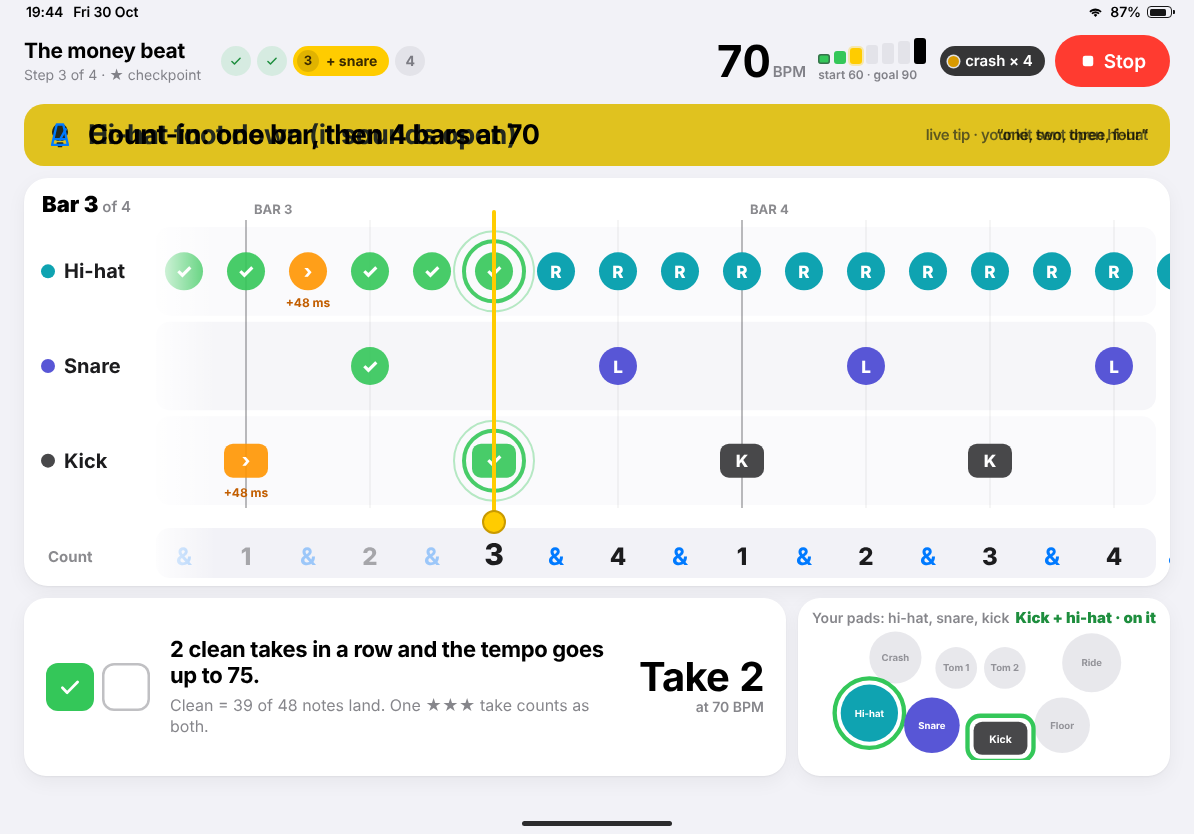
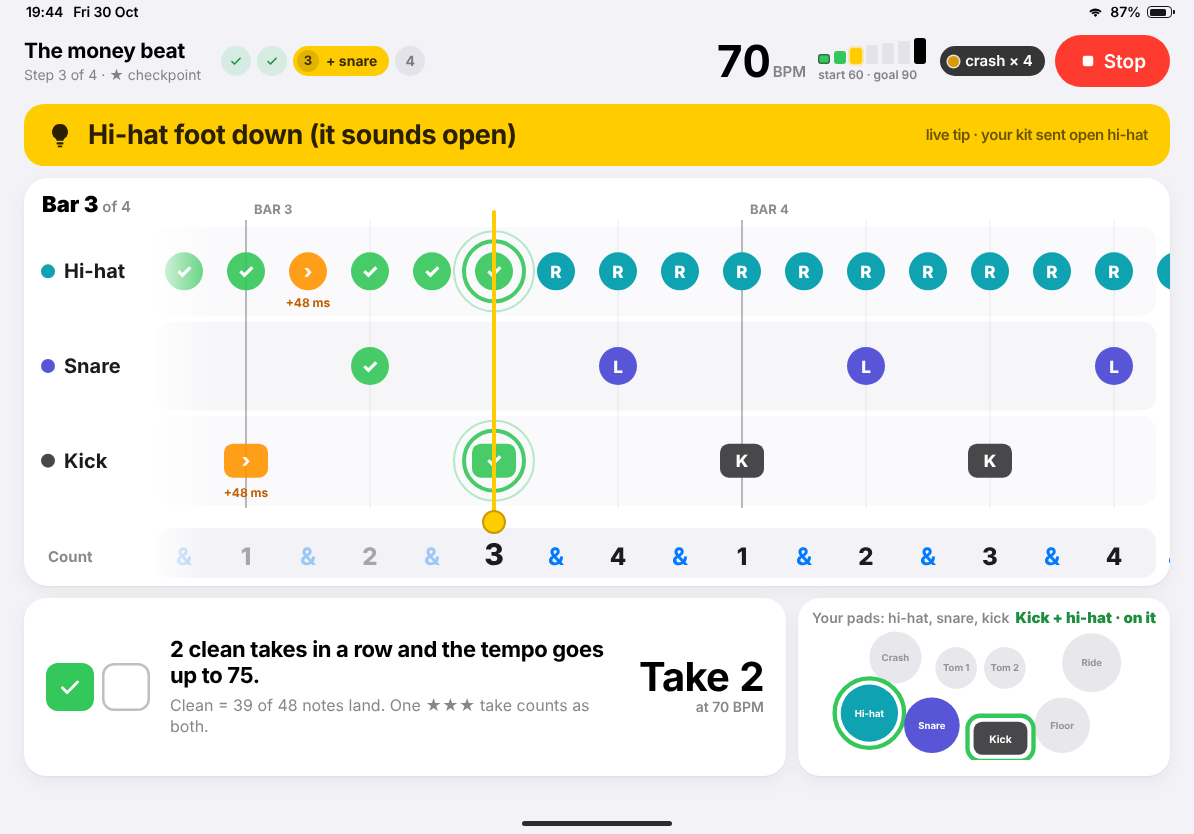
iPad mockups: lesson player variant fixes
Claude-Session: https://claude.ai/code/session_012qCzBwXtPvMyyk6zKAziwn

Changed region(s): [[0.0, 0.1247, 0.9916, 0.2182]]

diff --git a/docs/mockups/ipad/lesson-take.html b/docs/mockups/ipad/lesson-take.html
@@ -7,7 +7,7 @@
 <link rel="stylesheet" href="ipad.css">
 <style>
   /* Three moments of one screen: #ready (before the take), #countin, and the take itself (default). */
-  .v-ready, .v-countin { display: none; }
+  .ipad .v-ready, .ipad .v-countin { display: none; }
   #ready:target ~ * .v-ready, #ready:target ~ .v-ready { display: flex; }
   #ready:target ~ * .v-take, #ready:target ~ .v-take { display: none; }
   #countin:target ~ * .v-countin, #countin:target ~ .v-countin { display: flex; }
@@ -120,7 +120,7 @@
   <section class="panel" id="hwPanel">
     <div id="hw"></div>
     <div class="barNow v-take"><b>Bar 3</b> of 4</div>
-    <div class="barNow v-ready">Your 4 bars, before you play · R = right hand · L = left hand · K = kick</div>
+    <div class="barNow v-ready" style="left:auto;right:18px">Your 4 bars, before you play · R = right hand · L = left hand · K = kick</div>
   </section>
 
   <div class="countBig v-countin"><div class="n">3</div><p>say it with the click</p></div>
